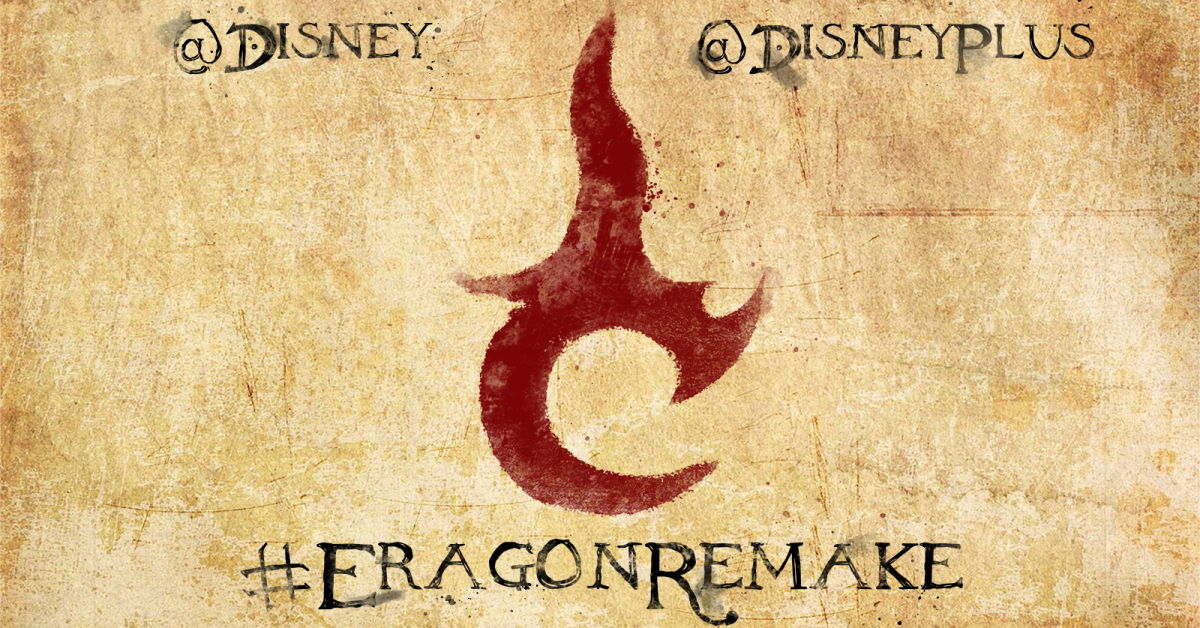
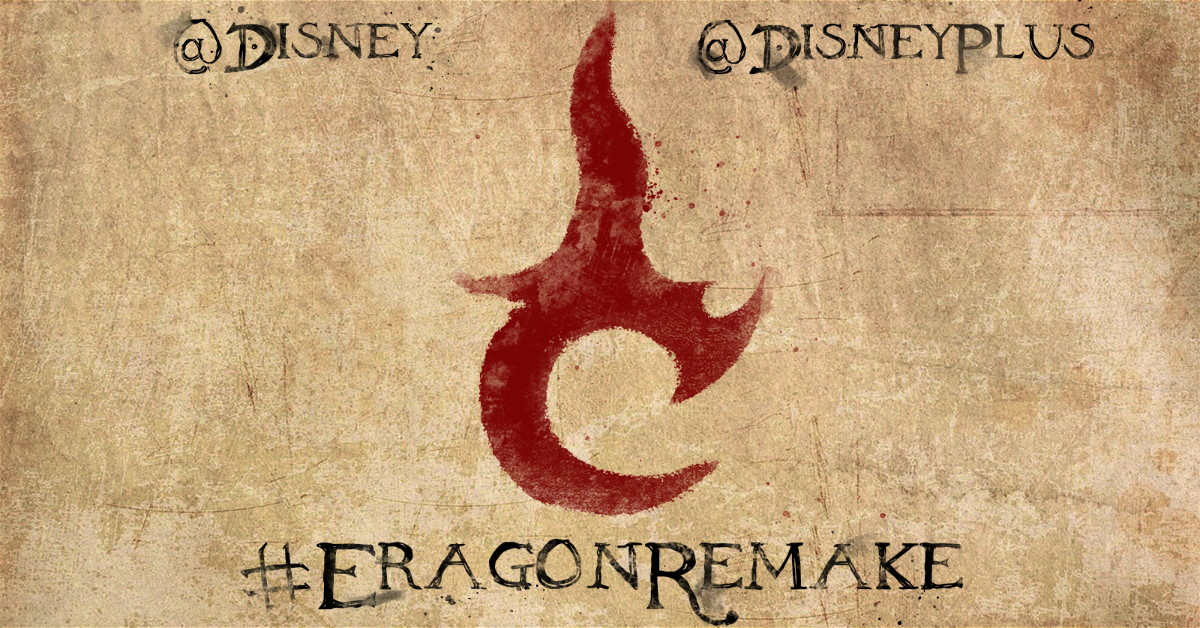
Add more images, update official image, wording changes

diff --git a/tweetstorm/index.html b/tweetstorm/index.html
@@ -90,7 +90,7 @@
 			<p>The Inheritance Cycle is internationally bestselling. Back in 2003, the first book, <i>Eragon</i>, became a <a href="https://www.nytimes.com/2003/11/16/books/children-s-books-the-egg-and-him.html" target="_blank">New York Times best seller</a>. The third book, <i>Brisingr</i>, <a href="https://www.publishersweekly.com/pw/by-topic/childrens/childrens-book-news/article/49368-behind-a-bestseller-a-look-into-the-inner-workings-of-the-inheritance-cycle.html" target="_blank">set a Random House record</a> by selling 550,000 copies in a single day. The final book topped charts like <a href="https://www.usatoday.com/life/books/best-selling/week/2011/46/" target="_blank">USA Today</a> and <a href="https://www.nytimes.com/2008/10/12/books/bestseller/bestchildren.html?_r=0#:~:text=INHERITANCE%2C%20by%20Christopher%20Paolini.%20(Knopf%2C%20hardcover%20and%20paper)%20A%20teenager%20and%20his%20dragon%20learn%20the%20secrets%20of%20a%20fantasy%20world.%C2%A0(Ages%2012%20and%20up)" target="_blank">The New York Times</a>. Today, the series has sold over 41 million copies.</p>
 			<p>The Inheritance Cycle is perfect material for television. Fans of the series certainly think so, and have created <a href="https://www.malte-wegmann.com/TIP/tip_sp.html" target="_blank">screenplays</a>, <a href="https://www.youtube.com/watch?v=a6Mxcog_tzY&list=PLLqAfBq8AmTJZxD_5zBdPzNDV992nvdPB" target="_blank">music</a> and <a href="https://www.malte-wegmann.com/TIP/tip_art.html" target="_blank">concept art</a> for a TV show to fill the void left by the studios who don't realise what a goldmine they're sitting on.</p>
 			<p>The Inheritance Cycle could be successfully adapted as anything from an animated show aimed at younger teens, to a gripping live action series for older kids and nostalgic adults who grew up with the series. The name <i>Eragon</i> is already meaningful to millions and is sure to attract the attention of millions more with a well thought-out adaptation.</p>
-			<p>The series covers meaningful themes such as legacy and inheritance, coming of age and identity, the accountability of those in power, and more besides. It features rich characters that develop throught the series, learning from past mistakes and making more. The worldbuilding is deep, with thoroughly planned callbacks throughout. There are unique creatures, both friend and foe, not found in any other property. A faithful adaptation could rival others such as Game of Thrones and The Lord of the Rings.</p>
+			<p>The series covers important themes such as legacy and inheritance, coming of age and identity, the accountability of those in power, and more besides. It features rich characters that develop throught the series, learning from past mistakes and making more. The worldbuilding is deep, with thoroughly planned callbacks throughout. There are unique creatures, both friend and foe, not found in any other property. A faithful adaptation could rival others such as Game of Thrones and The Lord of the Rings.</p>
 			<h3 id="christopher">Christopher's Thoughts</h3>
 			<blockquote class="blockquote text-center">
 				<p class="mb-0">I'm pushing very hard and there are some movements online to do a tweet storm or get a hashtag trending and see if we can get Disney's attention, and the thing is, that stuff does work, you know, it really does work, it lets the studio know that there's a fanbase, that they're active, that they're engaged, and that they care about the material.</p>
@@ -114,17 +114,17 @@
 			<p>Disney is most likely to create a show on Disney+ for the Inheritance Cycle. If you want to mention the adaptation format in your tweets, a show on Disney+ is the best option.</p>
 			<h3 id="participation">Participation</h3>
 			<p>One tweet is not enough - for a tweet storm to be truly effective, all participants need to be dedicated! Keep sending new tweets using the hashtag until you run out of things to say. Spark discussions. Talk about who you want to play your favourite characters. Share ideas for episode titles. Debate what a TV series might do differently to the books. Tell us how your favourite scene should look on screen.</p>
-			<p>Make good use of Twitter's features. Use the search bar to search for the tweet storm hashtag. Go through the results and retweet, favourite and reply to any positive tweets you see spreading our message.</p>
+			<p>Make good use of Twitter's features. <a href="https://twitter.com/search?q=%23EragonRemake&src=typed_query&f=live" target="_blank">Use the search bar to search for the tweet storm hashtag</a>. Go through the results and retweet, favourite and reply to any positive tweets you see spreading our message.</p>
+			<p>Keep going as hard as you can for the full hour of the tweet storm. After that, feel free to keep discussing using the hashtag!</p>
 			<h3 id="media">Media</h3>
 			<p>Pictures and videos have more reach on Twitter, so if possible, add one to all your tweets!</p>
 			<p><a href="media/">You can find some on this page.</a></p>
-			<h3 id="hashtag">Hashtag</h3>
-			<p>The hashtag is <b>#EragonRemake</b></p>
 			<h3 id="mentions">Mentions</h3>
 			<p>You should mention the <a href="https://twitter.com/Disney" target="_blank">@Disney</a> account in every tweet you send during the tweet storm.</p>
 			<p>You can do this by typing <code>@Disney</code> in your message.</p>
+			<p>You can also mention <a href="https://twitter.com/Paolini" target="_blank">@Paolini</a> in tweets you want Christopher to see and respond to.</p>
 			<p>Make sure the mention is in the middle of the tweet, not right at the start. If you put the mention at the start of the tweet, fewer people will be able to see it. We want everyone to see our tweets!</p>
-			<p>If you can't think of anything else, just put a dot '.' at the beginning of your tweets.</p>
+			<p>If you can't think of anything else, just put a dot '.' or the hashtag at the beginning of your tweets.</p>
 			<p>See the <a href="#examples">examples</a> below for other ways to do this.</p>
 			<h3 id="result">End Result and Optimism</h3>
 			<blockquote class="blockquote text-center">
@@ -148,7 +148,12 @@
 			<div class="col-md-12">
 				<h3 id="examples">Examples</h3>
 				<p>Below are some example tweets. Try to come up with your own unique messages though - the goal is to share a message, not spam!</p>
-				<p>For images to add to your tweets, look <a href="media/">here</a>.</p>
+				<h5>Key Points</h5>
+				<ul>
+					<li>Only use the official hashtag, <b>#EragonRemake</b> - no others!</li>
+					<li>Don't start a tweet with a mention (e.g. <b>@Disney</b>) - that makes the tweet private! Put mentions in the middle or at the end.</li>
+					<li>Add images and videos to your tweets. <a href="media/">Get some here!</a></li>
+				</ul>
 			</div>
 			<div class="col-md-6 mb-4">
 				<img class="example" src="img/examples/1.jpg" /img>

diff --git a/tweetstorm/media/index.html b/tweetstorm/media/index.html
@@ -60,7 +60,8 @@
 	
       <div class="container">
 		<br>
-		<p>Pictures and videos have more reach on Twitter, so if possible, add some to all your tweets! The media should be relevant, so it's good if it's related to the Inheritance Cycle, and even better if it's related to adapting the Inheritance Cycle as a TV series.</p>
+		<p>Pictures and videos have more reach on Twitter, so add some to all your tweets!</p>
+		<p>The media should be relevant: it's good if it's related to the Inheritance Cycle, and even better if it's about adapting the Inheritance Cycle as a TV series.</p>
 		<h3>Media List</h3>
 		<p>Click or tap to save any the images and videos below to attach it to your tweet.</p>			
 		<div class="row" id="media-gallery">
@@ -74,6 +75,27 @@
 			<div class="col-md-6 mb-4">
 				<a href="media/covers.jpg" download>
 					<img src="media/covers.jpg" /img>
+				</a>
+				<p>Source - Official</p>
+			</div>
+			
+			<div class="col-md-6 mb-4">
+				<a href="media/takeflight-saphira-1.jpg" download>
+					<img src="media/takeflight-saphira-1.jpg" /img>
+				</a>
+				<p>Source - Official</p>
+			</div>
+			
+			<div class="col-md-6 mb-4">
+				<a href="media/takeflight-saphira-2.jpg" download>
+					<img src="media/takeflight-saphira-2.jpg" /img>
+				</a>
+				<p>Source - Official</p>
+			</div>
+			
+			<div class="col-md-6 mb-4">
+				<a href="media/takeflight-brisingr.jpg" download>
+					<img src="media/takeflight-brisingr.jpg" /img>
 				</a>
 				<p>Source - Official</p>
 			</div>

diff --git a/tweetstorm/css/main.css b/tweetstorm/css/main.css
@@ -38,15 +38,6 @@ h1, h2, h3, h4, h5 {
   margin-bottom: 20px;
 }
 
-ul {
-  margin: 0;
-  padding: 0;
-}
-
-ul li {
-  list-style: none;
-}
-
 a:hover,
 a:focus {
   text-decoration: none;
